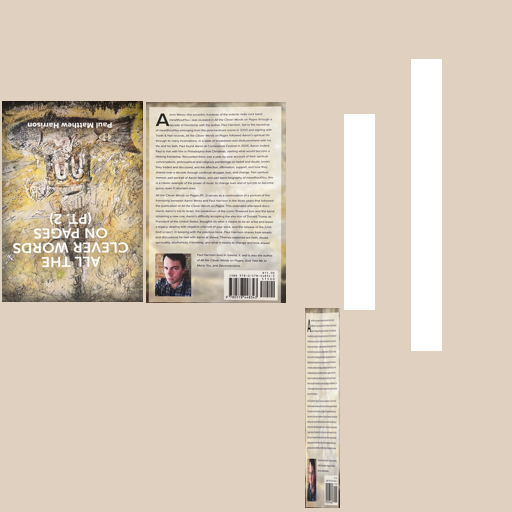
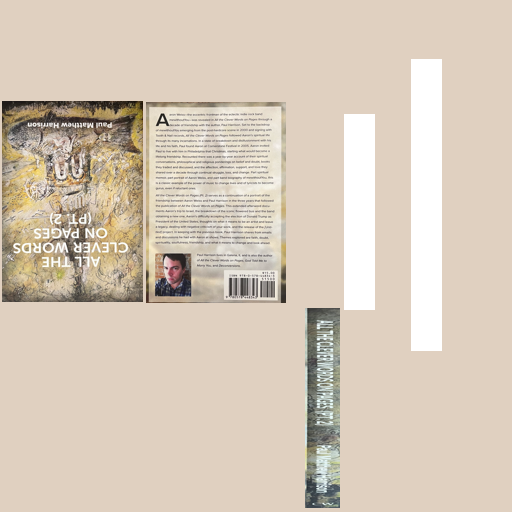
Finalize the virtual library post
- add remaining books
- correct a recent regression in the book texture generator causing
  the book's back image on the spine

Changed region(s): [[0.5938, 0.5938, 0.6875, 1.0]]

diff --git a/pages/library/library.html b/pages/library/library.html
@@ -9,7 +9,7 @@
     <link rel="stylesheet" href="/styles.css">
     <link rel="alternate" type="application/rss+xml" href="/atomfeed.xml" title="RSS Feed">
 
-    <title>scottnm: Library</title>
+    <title>scottnm: Virtual Library</title>
     <meta name="description" content="A virtual representation of my physical library">
     <meta name="viewport" content="width=device-width,initial-scale=1">
     <meta name="color-scheme" content="light dark">
@@ -66,7 +66,7 @@
     </header>
     <main>
       <article class="h-entry">
-        <h1 class="article-title p-name">Library</h1>
+        <h1 class="article-title p-name">Virtual Library</h1>
 
         <span class="post-time-container"> [ <time class="dt-published post-time" datetime="2026-10-08T00:00:00">2026-10-08</time> ] </span>
 
@@ -389,6 +389,212 @@
                 let model = document.querySelector("model-viewer#yokai-stories");
                 function onModelLoad() {
                   loadTexture(model, "/files/library/TEX/books/yokai-stories.png");
+                }
+                model.addEventListener("load", onModelLoad);
+              }
+              </script>
+            </model-viewer>
+            <model-viewer id="keys-88" class="book-3d-model" alt="3d model of 'The 88 Keys That Opened Doors' by Charles Joseph Smith" src="/files/library/OBJS/book/amigos3d-book-red.glb" shadow-intensity="1" camera-controls orientation="0deg 60deg 0deg" touch-action="pan-y">
+              <script>
+              {
+                let model = document.querySelector("model-viewer#keys-88");
+                function onModelLoad() {
+                  loadTexture(model, "/files/library/TEX/books/keys-88.png");
+                }
+                model.addEventListener("load", onModelLoad);
+              }
+              </script>
+            </model-viewer>
+            <model-viewer id="anorado" class="book-3d-model" alt="3d model of 'A Decade of Art' by Alexandria Norado" src="/files/library/OBJS/book/amigos3d-book-red.glb" shadow-intensity="1" camera-controls orientation="0deg 60deg 0deg" touch-action="pan-y">
+              <script>
+              {
+                let model = document.querySelector("model-viewer#anorado");
+                function onModelLoad() {
+                  loadTexture(model, "/files/library/TEX/books/anorado.png");
+                }
+                model.addEventListener("load", onModelLoad);
+              }
+              </script>
+            </model-viewer>
+            <model-viewer id="bec-und" class="book-3d-model" alt="3d model of 'Becoming (Un)desirable' by Yusaku Yajima" src="/files/library/OBJS/book/amigos3d-book-red.glb" shadow-intensity="1" camera-controls orientation="0deg 60deg 0deg" touch-action="pan-y">
+              <script>
+              {
+                let model = document.querySelector("model-viewer#bec-und");
+                function onModelLoad() {
+                  loadTexture(model, "/files/library/TEX/books/bec-und.png");
+                }
+                model.addEventListener("load", onModelLoad);
+              }
+              </script>
+            </model-viewer>
+            <model-viewer id="c-knr" class="book-3d-model" alt="3d model of 'The C Programming Language' by Brian Kerninghan and Dennis Ritchie" src="/files/library/OBJS/book/amigos3d-book-red.glb" shadow-intensity="1" camera-controls orientation="0deg 60deg 0deg" touch-action="pan-y">
+              <script>
+              {
+                let model = document.querySelector("model-viewer#c-knr");
+                function onModelLoad() {
+                  loadTexture(model, "/files/library/TEX/books/c-knr.png");
+                }
+                model.addEventListener("load", onModelLoad);
+              }
+              </script>
+            </model-viewer>
+            <model-viewer id="cs-app" class="book-3d-model" alt="3d model of 'Computer Systems: A Programmer's Perspective' by Bryant O'Hallaron" src="/files/library/OBJS/book/amigos3d-book-red.glb" shadow-intensity="1" camera-controls orientation="0deg 60deg 0deg" touch-action="pan-y">
+              <script>
+              {
+                let model = document.querySelector("model-viewer#cs-app");
+                function onModelLoad() {
+                  loadTexture(model, "/files/library/TEX/books/cs-app.png");
+                }
+                model.addEventListener("load", onModelLoad);
+              }
+              </script>
+            </model-viewer>
+            <model-viewer id="dod" class="book-3d-model" alt="3d model of 'Data-Oriented Design' by Richard Fabian" src="/files/library/OBJS/book/amigos3d-book-red.glb" shadow-intensity="1" camera-controls orientation="0deg 60deg 0deg" touch-action="pan-y">
+              <script>
+              {
+                let model = document.querySelector("model-viewer#dod");
+                function onModelLoad() {
+                  loadTexture(model, "/files/library/TEX/books/dod.png");
+                }
+                model.addEventListener("load", onModelLoad);
+              }
+              </script>
+            </model-viewer>
+            <model-viewer id="eff-tcpip" class="book-3d-model" alt="3d model of 'Effective TCP/IP' by Jon C. Snader" src="/files/library/OBJS/book/amigos3d-book-red.glb" shadow-intensity="1" camera-controls orientation="0deg 60deg 0deg" touch-action="pan-y">
+              <script>
+              {
+                let model = document.querySelector("model-viewer#eff-tcpip");
+                function onModelLoad() {
+                  loadTexture(model, "/files/library/TEX/books/eff-tcpip.png");
+                }
+                model.addEventListener("load", onModelLoad);
+              }
+              </script>
+            </model-viewer>
+            <model-viewer id="flomo" class="book-3d-model" alt="3d model of 'Images of America: Flower Mound' by Jimmy Ruth Hilliard Martin" src="/files/library/OBJS/book/amigos3d-book-red.glb" shadow-intensity="1" camera-controls orientation="0deg 60deg 0deg" touch-action="pan-y">
+              <script>
+              {
+                let model = document.querySelector("model-viewer#flomo");
+                function onModelLoad() {
+                  loadTexture(model, "/files/library/TEX/books/flomo.png");
+                }
+                model.addEventListener("load", onModelLoad);
+              }
+              </script>
+            </model-viewer>
+            <model-viewer id="how-game-lives" class="book-3d-model" alt="3d model of 'How a Game Lives' by Jacob Geller" src="/files/library/OBJS/book/amigos3d-book-red.glb" shadow-intensity="1" camera-controls orientation="0deg 60deg 0deg" touch-action="pan-y">
+              <script>
+              {
+                let model = document.querySelector("model-viewer#how-game-lives");
+                function onModelLoad() {
+                  loadTexture(model, "/files/library/TEX/books/how-game-lives.png");
+                }
+                model.addEventListener("load", onModelLoad);
+              }
+              </script>
+            </model-viewer>
+            <model-viewer id="jvgo" class="book-3d-model" alt="3d model of 'Japanese Video Game Obscurities' by Kurt Kalata" src="/files/library/OBJS/book/amigos3d-book-red.glb" shadow-intensity="1" camera-controls orientation="0deg 60deg 0deg" touch-action="pan-y">
+              <script>
+              {
+                let model = document.querySelector("model-viewer#jvgo");
+                function onModelLoad() {
+                  loadTexture(model, "/files/library/TEX/books/jvgo.png");
+                }
+                model.addEventListener("load", onModelLoad);
+              }
+              </script>
+            </model-viewer>
+            <model-viewer id="knuck" class="book-3d-model" alt="3d model of 'Knuckles: Anniversary Special' by Kurt Kalata" src="/files/library/OBJS/book/amigos3d-book-red.glb" shadow-intensity="1" camera-controls orientation="0deg 60deg 0deg" touch-action="pan-y">
+              <script>
+              {
+                let model = document.querySelector("model-viewer#knuck");
+                function onModelLoad() {
+                  loadTexture(model, "/files/library/TEX/books/knuck.png");
+                }
+                model.addEventListener("load", onModelLoad);
+              }
+              </script>
+            </model-viewer>
+            <model-viewer id="latpuz" class="book-3d-model" alt="3d model of 'Lateral Thinking Puzzles' by Paul Sloane" src="/files/library/OBJS/book/amigos3d-book-red.glb" shadow-intensity="1" camera-controls orientation="0deg 60deg 0deg" touch-action="pan-y">
+              <script>
+              {
+                let model = document.querySelector("model-viewer#latpuz");
+                function onModelLoad() {
+                  loadTexture(model, "/files/library/TEX/books/latpuz.png");
+                }
+                model.addEventListener("load", onModelLoad);
+              }
+              </script>
+            </model-viewer>
+            <model-viewer id="lies-sil" class="book-3d-model" alt="3d model of 'Lies of Silence' by Brian Moore" src="/files/library/OBJS/book/amigos3d-book-red.glb" shadow-intensity="1" camera-controls orientation="0deg 60deg 0deg" touch-action="pan-y">
+              <script>
+              {
+                let model = document.querySelector("model-viewer#lies-sil");
+                function onModelLoad() {
+                  loadTexture(model, "/files/library/TEX/books/lies-sil.png");
+                }
+                model.addEventListener("load", onModelLoad);
+              }
+              </script>
+            </model-viewer>
+            <model-viewer id="maus" class="book-3d-model" alt="3d model of 'Maus' by Art Spiegelman" src="/files/library/OBJS/book/amigos3d-book-red.glb" shadow-intensity="1" camera-controls orientation="0deg 60deg 0deg" touch-action="pan-y">
+              <script>
+              {
+                let model = document.querySelector("model-viewer#maus");
+                function onModelLoad() {
+                  loadTexture(model, "/files/library/TEX/books/maus.png");
+                }
+                model.addEventListener("load", onModelLoad);
+              }
+              </script>
+            </model-viewer>
+            <model-viewer id="myageanx" class="book-3d-model" alt="3d model of 'My Age of Anxiety' by Scott Stossel" src="/files/library/OBJS/book/amigos3d-book-red.glb" shadow-intensity="1" camera-controls orientation="0deg 60deg 0deg" touch-action="pan-y">
+              <script>
+              {
+                let model = document.querySelector("model-viewer#myageanx");
+                function onModelLoad() {
+                  loadTexture(model, "/files/library/TEX/books/myageanx.png");
+                }
+                model.addEventListener("load", onModelLoad);
+              }
+              </script>
+            </model-viewer>
+            <model-viewer
+              id="oral-gh"
+              class="book-3d-model"
+              alt="3d model of 'The Oral History of Guitar Hero, Rock Band, and the Music Game Boom' by Blake Hester"
+              src="/files/library/OBJS/book/amigos3d-book-red.glb"
+              shadow-intensity="1"
+              camera-controls
+              orientation="0deg 60deg 0deg"
+              touch-action="pan-y">
+              <script>
+              {
+                let model = document.querySelector("model-viewer#oral-gh");
+                function onModelLoad() {
+                  loadTexture(model, "/files/library/TEX/books/oral-gh.png");
+                }
+                model.addEventListener("load", onModelLoad);
+              }
+              </script>
+            </model-viewer>
+            <model-viewer id="ossl" class="book-3d-model" alt="3d model of 'Network Security with OpenSSL' by John Viega, Matt Messier, and Pravir Chandra" src="/files/library/OBJS/book/amigos3d-book-red.glb" shadow-intensity="1" camera-controls orientation="0deg 60deg 0deg" touch-action="pan-y">
+              <script>
+              {
+                let model = document.querySelector("model-viewer#ossl");
+                function onModelLoad() {
+                  loadTexture(model, "/files/library/TEX/books/ossl.png");
+                }
+                model.addEventListener("load", onModelLoad);
+              }
+              </script>
+            </model-viewer>
+            <model-viewer id="tao" class="book-3d-model" alt="3d model of 'Tao Te Ching' by Lao Tzu" src="/files/library/OBJS/book/amigos3d-book-red.glb" shadow-intensity="1" camera-controls orientation="0deg 60deg 0deg" touch-action="pan-y">
+              <script>
+              {
+                let model = document.querySelector("model-viewer#tao");
+                function onModelLoad() {
+                  loadTexture(model, "/files/library/TEX/books/tao.png");
                 }
                 model.addEventListener("load", onModelLoad);
               }

diff --git a/index.html b/index.html
@@ -89,6 +89,12 @@
         <section id="highlights-section">
             <h2 class="section-title">Highlights</h2>
             <div class="pic-grid">
+                <a href="pages/library/library.html" class="pic-grid-link u-url">
+                    <div class="pic-grid-cell h-entry">
+                        <img class="pic-grid-cell-image" src="/site_images/virtual-library-thumbnail.png" alt="" loading="lazy" >
+                        <div class="pic-grid-cell-text-overlay"><span class="project-title p-name">Virtual Library</span></div>
+                    </div>
+                </a>
                 <a href="pages/haiku2026/2026_05_24_japan_fair_haiku_contest_submission.html" class="pic-grid-link u-url">
                     <div class="pic-grid-cell h-entry">
                         <img class="pic-grid-cell-image" src="/site_images/haikucontest.avif" alt="" loading="lazy" >
@@ -111,12 +117,6 @@
                     <div class="pic-grid-cell h-entry">
                         <img class="pic-grid-cell-image" src="/site_images/digdeep-demo.webp" alt="" loading="lazy" >
                         <div class="pic-grid-cell-text-overlay"><span class="project-title p-name">Dig Deep</span></div>
-                    </div>
-                </a>
-                <a href="pages/scrapewood/2024_01_07_scrapewood.html" class="pic-grid-link u-url">
-                    <div class="pic-grid-cell h-entry">
-                        <img class="pic-grid-cell-image" src="/site_images/scrapewood_on_reader.avif" alt="" loading="lazy" >
-                        <div class="pic-grid-cell-text-overlay"><span class="project-title p-name">Scrapewood</span></div>
                     </div>
                 </a>
                 <a href="https://skfb.ly/UuUG" class="pic-grid-link u-url">
@@ -154,15 +154,15 @@
                     <span class="p-summary">A list of the things I highlighted from my first read through of Oliver Burkeman's "Four Thousand Weeks."</span>
                 </li>
                 <li class="h-entry">
-                    <a href="pages/2026_10_03_power_outage/2026_10_03_power_outage.html" class="project-title p-name">Writing: Power Outage</a>
+                    <a href="pages/library/library.html" class="project-title p-name">Virtual Library</a>
                     <br >
                     <span><i>
-                        <time class="dt-published" datetime="2026-10-03T18:21:58">
-                        2026-10-03
+                        <time class="dt-published" datetime="2026-10-08T20:51:49">
+                        2026-10-08
                         </time>
                     </i></span>
                     <br >
-                    <span class="p-summary">I wrote about being awake at 3AM during a wide power outage in Seattle.</span>
+                    <span class="p-summary">A virtual representation of my physical library</span>
                 </li>
             </ul>
         </section>
@@ -418,6 +418,17 @@
                     </i></span>
                     <br >
                     <span class="p-summary">A list of the things I highlighted from my first read through of Oliver Burkeman's "Four Thousand Weeks."</span>
+                </li>
+                <li class="h-entry">
+                    <a href="pages/library/library.html" class="project-title p-name">Virtual Library</a>
+                    <br >
+                    <span><i>
+                        <time class="dt-published" datetime="2026-10-08T20:51:49">
+                        2026-10-08
+                        </time>
+                    </i></span>
+                    <br >
+                    <span class="p-summary">A virtual representation of my physical library</span>
                 </li>
                 <li class="h-entry">
                     <a href="pages/2026_10_03_power_outage/2026_10_03_power_outage.html" class="project-title p-name">Writing: Power Outage</a>

diff --git a/pages/unlisted.html b/pages/unlisted.html
@@ -71,14 +71,6 @@
 
         <section><ul>
                 <li class="h-entry">
-                    <a href="/pages/library/library.html" class="project-title p-name">Library</a><br >
-                    <span><i>
-                        <time class="dt-published" datetime="2026-10-08T20:51:49">
-                        2026-10-08
-                        </time>
-                    </i></span>
-                </li>
-                <li class="h-entry">
                     <a href="/pages/badges/badges.html" class="project-title p-name">web badges</a><br >
                     <span><i>
                         <time class="dt-published" datetime="2026-07-19T16:48:32">
